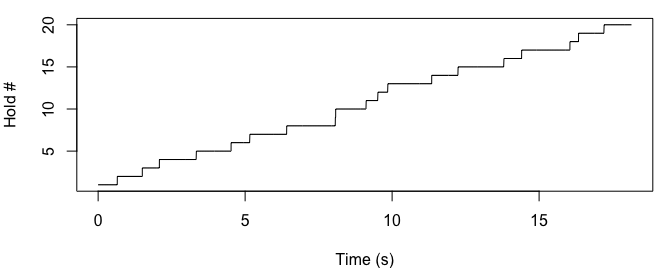
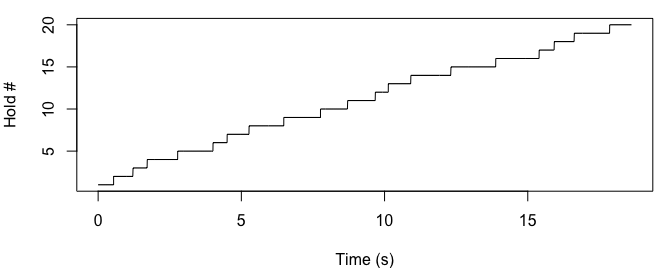
Setting default constraint to 0, because model seems unable to identify

diff --git a/README.md b/README.md
@@ -101,10 +101,9 @@ beta
 (init_time/n_holds)*seq_ratios
 ```
 
-    ##  [1] 0.65229230 0.85017774 0.58124922 1.25796814 1.18137493 0.63833767
-    ##  [7] 1.25367652 1.65471092 0.01098751 1.03753524 0.39950981 0.33821582
-    ## [13] 1.49153421 0.89728872 1.55949420 0.60290737 1.64239926 0.29313278
-    ## [19] 0.86920733 0.93018777
+    ##  [1] 0.5402343 0.6789109 0.4964314 1.0620359 1.2347013 0.4931091 0.7653665
+    ##  [8] 1.2116549 1.2807281 0.9497233 0.9663621 0.4525588 0.7873491 1.3997985
+    ## [15] 1.5644431 1.5156442 0.5278641 0.6988377 1.2347530 0.7614113
 
 This `sd_multiplier` value of 0.5 generates a distribution of times per
 hold that is similar to the example distribution in [Reveret et
@@ -126,13 +125,11 @@ innovation. Innovations are changes to the beta of the route, in this
 case flipping one of the booleans of the `beta` vector from TRUE to
 FALSE. Not all boolean flips are possible. We will include a parameter
 `max_dist` that controls the maximum travel distance (Euclidean distance
-in meters) that a climber can travel after skipping a hold. The prior
-for this parameter will go from the minimum distance between holds that
-are one hold apart to the maximum distance between holds that are two
-holds apart To our knowledge, nobody has successfully skipped three or
-more holds in speed climbing, so this is an appropriately wide prior.
-The first hold can never be skipped, because every climber is required
-to start on it. The Euclidean distance for the last hold will be the
+in meters) that a climber can travel after skipping a hold. To our
+knowledge, nobody has successfully skipped three or more holds in speed
+climbing, so an appropriate prior will be chosen to reflect this. The
+first hold can never be skipped, because every climber is required to
+start on it. The Euclidean distance for the last hold will be the
 distance between the second-to-last (or third-to-last) hold and the
 buzzer.
 
@@ -283,13 +280,13 @@ n <- unlist(lapply(1:length(years), function(x){nrow(data[which(data$year == yea
 
 Now let’s run the model with an initial population size of 53, a 0.2
 probability of learning from the top 20 climbers, a 0.2 probability of
-innovation, `max_dist` = 2, and `constraint` = 1. The `improve_rate_m`
-of athletic improvement will be 2, the `improve_rate_sd` will be 0.2,
-and the `min` improvement possible will be 0.4. `bw` and `ylim`, control
-the density bandwidth and y-axis limit in the plot, respectively.
-`sum_stats` controls whether summary statistics are calculated from the
-output, `plot` controls whether the output is plotted, and `bw` and
-`ylim` control the density bandwidth and y-axis limit of the plot,
+innovation, and `max_dist` = 3. The `improve_rate_m` of athletic
+improvement will be 2, the `improve_rate_sd` will be 0.2, and the `min`
+improvement possible will be 0.4. `bw` and `ylim`, control the density
+bandwidth and y-axis limit in the plot, respectively. `sum_stats`
+controls whether summary statistics are calculated from the output,
+`plot` controls whether the output is plotted, and `bw` and `ylim`
+control the density bandwidth and y-axis limit of the plot,
 respectively.
 
 ``` r
@@ -299,7 +296,7 @@ start <- Sys.time()
 #run model
 output <- SpeedClimbingABM(n = n, years = years, pop_data = pop_data, grid = grid,
                            n_holds = 20, beta_true_prob = 1, learn_prob = 0.2, n_top = 20,
-                           innov_prob = 0.2, max_dist = 2, constraint = 1, improve_rate_m = 2, improve_rate_sd = 0.2, improve_min = 0.4,
+                           innov_prob = 0.2, max_dist = 3, improve_rate_m = 2, improve_rate_sd = 0.2, improve_min = 0.4,
                            sum_stats = TRUE, plot = TRUE, bw = 0.6, ylim = 0.4)
 ```
 
@@ -310,7 +307,7 @@ output <- SpeedClimbingABM(n = n, years = years, pop_data = pop_data, grid = gri
 Sys.time() - start
 ```
 
-    ## Time difference of 0.1917951 secs
+    ## Time difference of 0.1857071 secs
 
 In the above plot, each distribution (from right to left) is the
 distribution of `current_records` for climbers in the population in each
@@ -323,32 +320,32 @@ output
 
     ##              0%       10%       20%       30%       40%       50%       60%
     ##  [1,] 15.400000 18.256000 20.408000 21.188000 24.432000 28.640000 29.712000
-    ##  [2,]  8.080000 11.713221 13.230382 14.825509 16.848000 20.681732 24.314000
-    ##  [3,]  6.137332  8.464931  9.977822 11.096318 11.840509 13.474007 16.231523
-    ##  [4,]  5.332223  7.670721  8.480000  9.265000 10.313183 11.505000 12.690000
-    ##  [5,]  4.957141  7.058353  7.430000  7.847544  8.460000  8.705862  9.299056
-    ##  [6,]  4.782399  6.834947  7.166333  7.363209  7.766841  8.243902  8.829000
-    ##  [7,]  4.641932  6.657534  6.884983  7.181000  7.636000  8.219211  8.822027
-    ##  [8,]  4.034412  6.138800  6.672423  7.028000  7.619031  7.849000  8.634020
-    ##  [9,]  3.924371  5.272891  5.832917  6.544156  6.864190  7.380000  8.030181
-    ## [10,]  3.917408  5.019389  5.627358  6.562000  7.224000  7.640000  8.032009
-    ## [11,]  3.446072  4.691355  5.563178  6.186535  6.643469  7.310000  7.881432
-    ## [12,]  3.589976  5.110404  5.957216  6.519785  6.826800  7.600000  8.016130
-    ## [13,]  3.586636  4.726747  5.386970  5.838980  6.256800  6.792751  7.371800
-    ##             70%       80%       90%     100%
-    ##  [1,] 32.472000 39.548000 43.254000 62.06000
-    ##  [2,] 28.862000 31.218000 34.151000 48.08000
-    ##  [3,] 20.206797 24.435371 25.634489 33.23000
-    ##  [4,] 17.612979 22.129083 23.862902 31.90000
-    ##  [5,] 10.715717 14.900000 19.936331 22.66092
-    ##  [6,] 10.380000 12.830000 18.586290 21.46823
-    ##  [7,] 11.749000 13.546000 18.425050 24.79000
-    ##  [8,]  9.026400  9.734000 11.862000 24.97120
-    ##  [9,]  8.396859  8.960445 10.675733 18.26773
-    ## [10,]  8.604000 10.150000 12.051000 23.37000
-    ## [11,]  8.558815  9.640000 10.841409 16.59000
-    ## [12,]  8.772000  9.413400 10.503000 19.83000
-    ## [13,]  8.008068  8.788600  9.975361 13.59109
+    ##  [2,]  8.080000 11.060578 12.480000 14.325166 16.502488 20.630061 25.160000
+    ##  [3,]  5.873632  8.553420  9.625093  9.960251 11.880000 12.863145 14.928484
+    ##  [4,]  5.095643  7.295000  8.480000  9.130000  9.880000 11.387495 12.690000
+    ##  [5,]  4.727489  6.825000  7.245531  7.565026  8.013432  8.538026  9.025170
+    ##  [6,]  4.553275  6.139634  6.744713  7.136155  7.520000  7.822596  8.610000
+    ##  [7,]  5.233254  6.283860  6.663972  6.967295  7.278000  7.714898  8.549689
+    ##  [8,]  4.920689  5.878935  6.449913  6.914005  7.328236  7.741000  8.554000
+    ##  [9,]  5.131003  5.636271  6.231486  6.606955  6.771877  7.140782  7.766057
+    ## [10,]  3.838108  5.426614  6.397104  6.622725  7.021380  7.595000  7.844000
+    ## [11,]  3.835740  5.151451  5.846159  6.411400  6.779071  7.364068  8.013531
+    ## [12,]  3.395694  5.117541  6.044764  6.568138  7.062204  7.580000  8.087829
+    ## [13,]  3.392146  4.904438  5.602594  6.121893  6.446190  7.044515  7.606281
+    ##             70%       80%      90%     100%
+    ##  [1,] 32.472000 39.548000 43.25400 62.06000
+    ##  [2,] 28.910900 30.598000 33.13300 48.08000
+    ##  [3,] 18.090819 23.514749 25.52600 37.27870
+    ##  [4,] 15.928443 21.710000 23.71747 32.13086
+    ##  [5,] 10.594735 14.045370 18.20053 21.33770
+    ##  [6,] 10.018308 11.530000 15.50409 19.42049
+    ##  [7,] 10.784468 13.546000 16.84816 24.79000
+    ##  [8,]  8.996000  9.910262 11.86200 23.29611
+    ##  [9,]  8.324000  8.948976 11.26200 18.15000
+    ## [10,]  8.604000 10.018000 12.14685 23.37000
+    ## [11,]  8.703000  9.580000 10.88729 16.59000
+    ## [12,]  8.731958  9.239800 10.51600 19.83000
+    ## [13,]  8.044284  8.721119 10.05680 15.37488
 
 Let’s do another run of the model, but let’s add interaction effects so
 that climbers with slower times are more likely to learn
@@ -364,7 +361,7 @@ start <- Sys.time()
 #run model
 output <- SpeedClimbingABM(n = n, years = years, pop_data = pop_data, grid = grid,
                            n_holds = 20, beta_true_prob = 1, learn_prob = 0.2, n_top = 20,
-                           innov_prob = 0.2, max_dist = 2, constraint = 1, improve_rate_m = 2, improve_rate_sd = 0.2, improve_min = 0.4,
+                           innov_prob = 0.2, max_dist = 3, improve_rate_m = 2, improve_rate_sd = 0.2, improve_min = 0.4,
                            learn_x_times = 1, innov_x_times = -1, learn_x_pop = 1, innov_x_pop = 1,
                            sum_stats = TRUE, plot = TRUE, bw = 0.6, ylim = 0.4)
 ```
@@ -376,7 +373,7 @@ output <- SpeedClimbingABM(n = n, years = years, pop_data = pop_data, grid = gri
 Sys.time() - start
 ```
 
-    ## Time difference of 0.217845 secs
+    ## Time difference of 0.1958089 secs
 
 ``` r
 output
@@ -384,29 +381,29 @@ output
 
     ##              0%       10%       20%       30%       40%       50%       60%
     ##  [1,] 15.400000 18.256000 20.408000 21.188000 24.432000 28.640000 29.712000
-    ##  [2,]  8.080000 11.562981 12.479813 14.172841 16.168967 20.296796 25.160000
-    ##  [3,]  6.043035  8.277218  9.775976 11.075495 11.700462 12.779405 15.373980
-    ##  [4,]  5.228193  7.599383  8.469579  9.130000 10.104529 11.469959 12.690000
-    ##  [5,]  4.830081  6.933944  7.357581  7.835561  8.490000  8.739531  9.508784
-    ##  [6,]  4.635572  6.263508  7.120000  7.323120  7.620000  8.382609  8.960000
-    ##  [7,]  5.236650  6.380862  6.938383  7.228073  7.424000  7.944887  8.633391
-    ##  [8,]  5.195750  6.263138  6.875348  7.229287  7.684000  7.958395  8.506301
-    ##  [9,]  5.684568  5.948669  6.545060  6.870749  7.153807  7.900000  8.220000
-    ## [10,]  5.476944  6.338154  6.640346  6.961427  7.242036  7.645000  8.064000
-    ## [11,]  4.853170  6.039679  6.480162  6.835541  7.278000  7.633688  8.275006
-    ## [12,]  3.632268  5.294434  6.023574  6.580369  7.089442  7.620000  8.014000
-    ## [13,]  3.050733  5.012867  5.620358  6.109421  6.489192  6.860000  7.555770
+    ##  [2,]  8.080000 11.371797 12.396273 13.146000 16.285188 21.426463 25.160000
+    ##  [3,]  5.057947  8.244684  9.150539 10.828557 11.427527 12.659246 15.003114
+    ##  [4,]  5.828766  7.525000  8.480000  9.045000 10.260000 11.250242 12.410000
+    ##  [5,]  5.447661  6.742993  7.100000  7.623333  8.094889  8.560000  9.433370
+    ##  [6,]  4.854973  6.044089  6.507064  7.167482  7.285589  7.990537  8.829000
+    ##  [7,]  4.181177  6.122759  6.608784  7.141207  7.443462  8.005218  8.874561
+    ##  [8,]  3.771361  5.987855  6.526619  7.009883  7.561200  7.758000  8.392135
+    ##  [9,]  3.755358  4.984049  5.789546  6.369965  6.909726  7.578298  8.092000
+    ## [10,]  3.305044  4.987536  6.135821  6.605000  7.041863  7.605000  7.844000
+    ## [11,]  3.301864  4.558548  5.533536  6.186487  6.666000  7.230000  7.667998
+    ## [12,]  3.202550  4.304976  5.297955  6.345200  6.680000  7.310000  7.824000
+    ## [13,]  2.858689  4.061392  4.402452  4.776138  5.540486  5.949355  6.457855
     ##             70%       80%      90%     100%
     ##  [1,] 32.472000 39.548000 43.25400 62.06000
-    ##  [2,] 28.889246 30.598000 33.13300 48.08000
-    ##  [3,] 18.662874 23.207538 25.52600 33.23000
-    ##  [4,] 17.203950 21.710000 23.69500 31.90000
-    ##  [5,] 10.900073 14.400619 19.41311 21.56242
-    ##  [6,] 10.318678 12.359520 16.12290 19.46955
-    ##  [7,] 11.714826 13.539249 17.48478 24.79000
-    ##  [8,]  8.993197  9.734000 12.24469 21.18766
-    ##  [9,]  8.502000  9.110170 11.21308 18.15000
-    ## [10,]  8.604000 10.150000 12.54600 23.37000
-    ## [11,]  9.158000  9.782000 11.96911 18.74039
-    ## [12,]  8.772000  9.239800 10.50300 19.83000
-    ## [13,]  8.117585  8.675284  9.66654 13.30600
+    ##  [2,] 28.862000 31.218000 33.21137 48.08000
+    ##  [3,] 19.657361 20.773782 25.52600 33.23000
+    ##  [4,] 14.160462 20.530000 23.69500 31.90000
+    ##  [5,] 10.355714 12.701513 16.17691 20.78870
+    ##  [6,]  9.628367 11.464175 12.86647 17.77753
+    ##  [7,] 10.101761 13.022122 16.49700 24.79000
+    ##  [8,]  8.933532  9.498400 11.79280 16.52000
+    ##  [9,]  8.439339  8.780140 10.28200 18.15000
+    ## [10,]  8.426560  9.930000 11.82700 23.37000
+    ## [11,]  8.410722  9.270923 10.01272 16.59000
+    ## [12,]  8.458400  9.168880 10.25600 19.83000
+    ## [13,]  7.378863  8.122696  9.33540 13.30600
